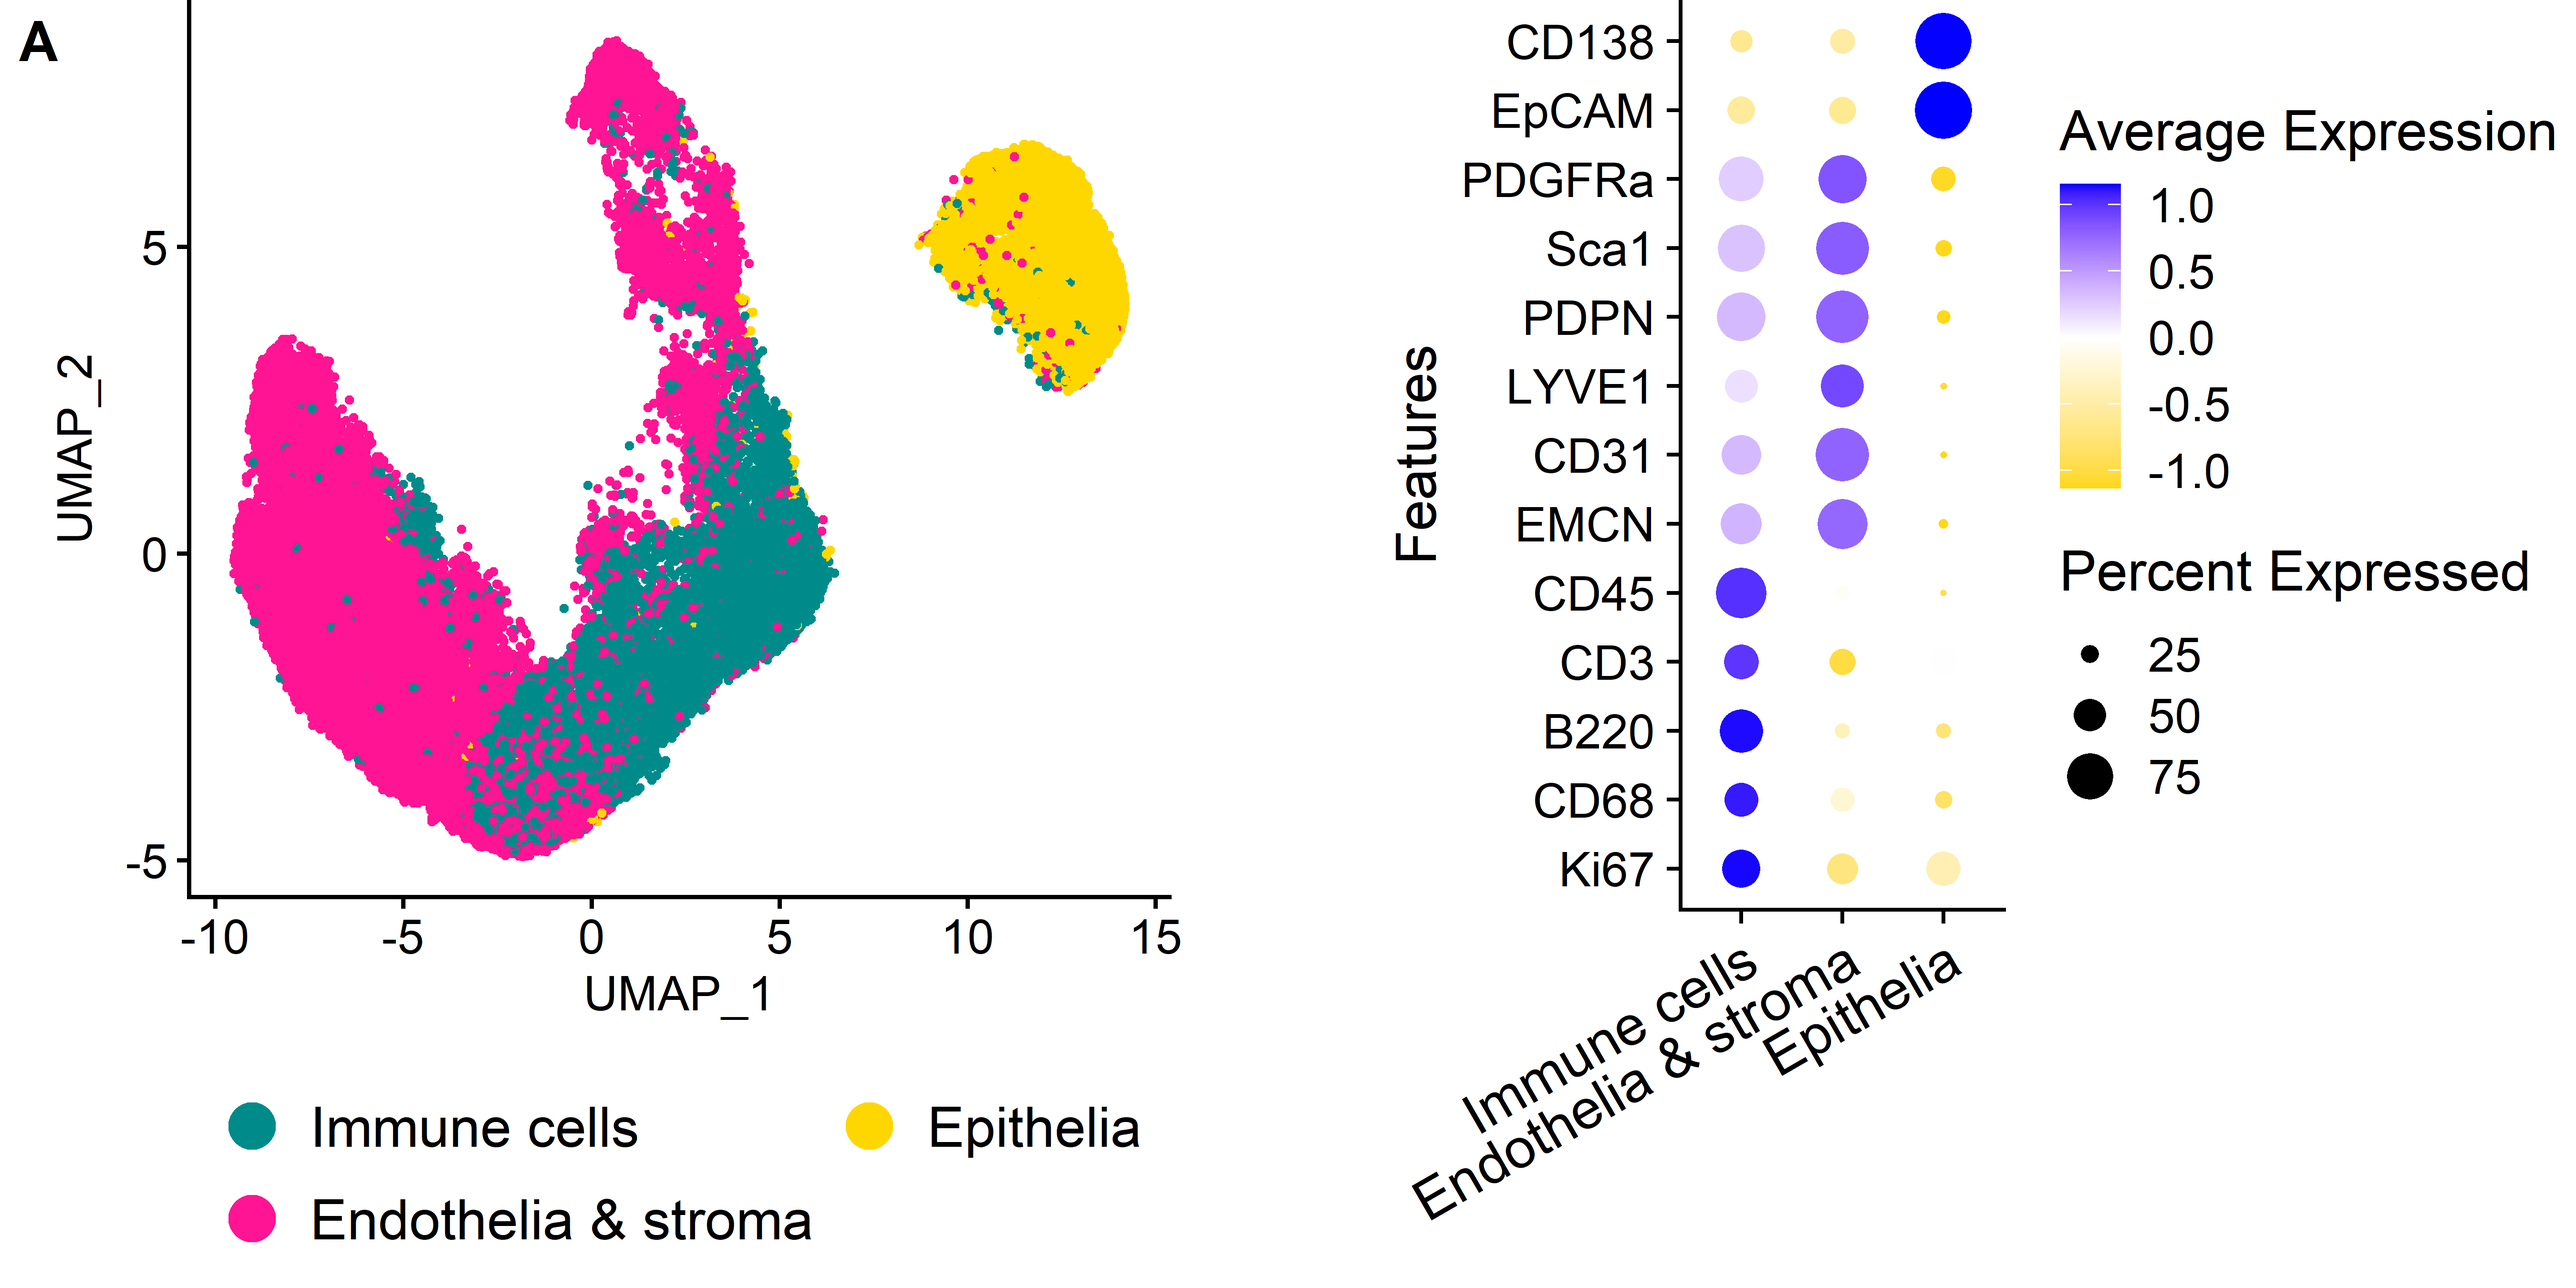
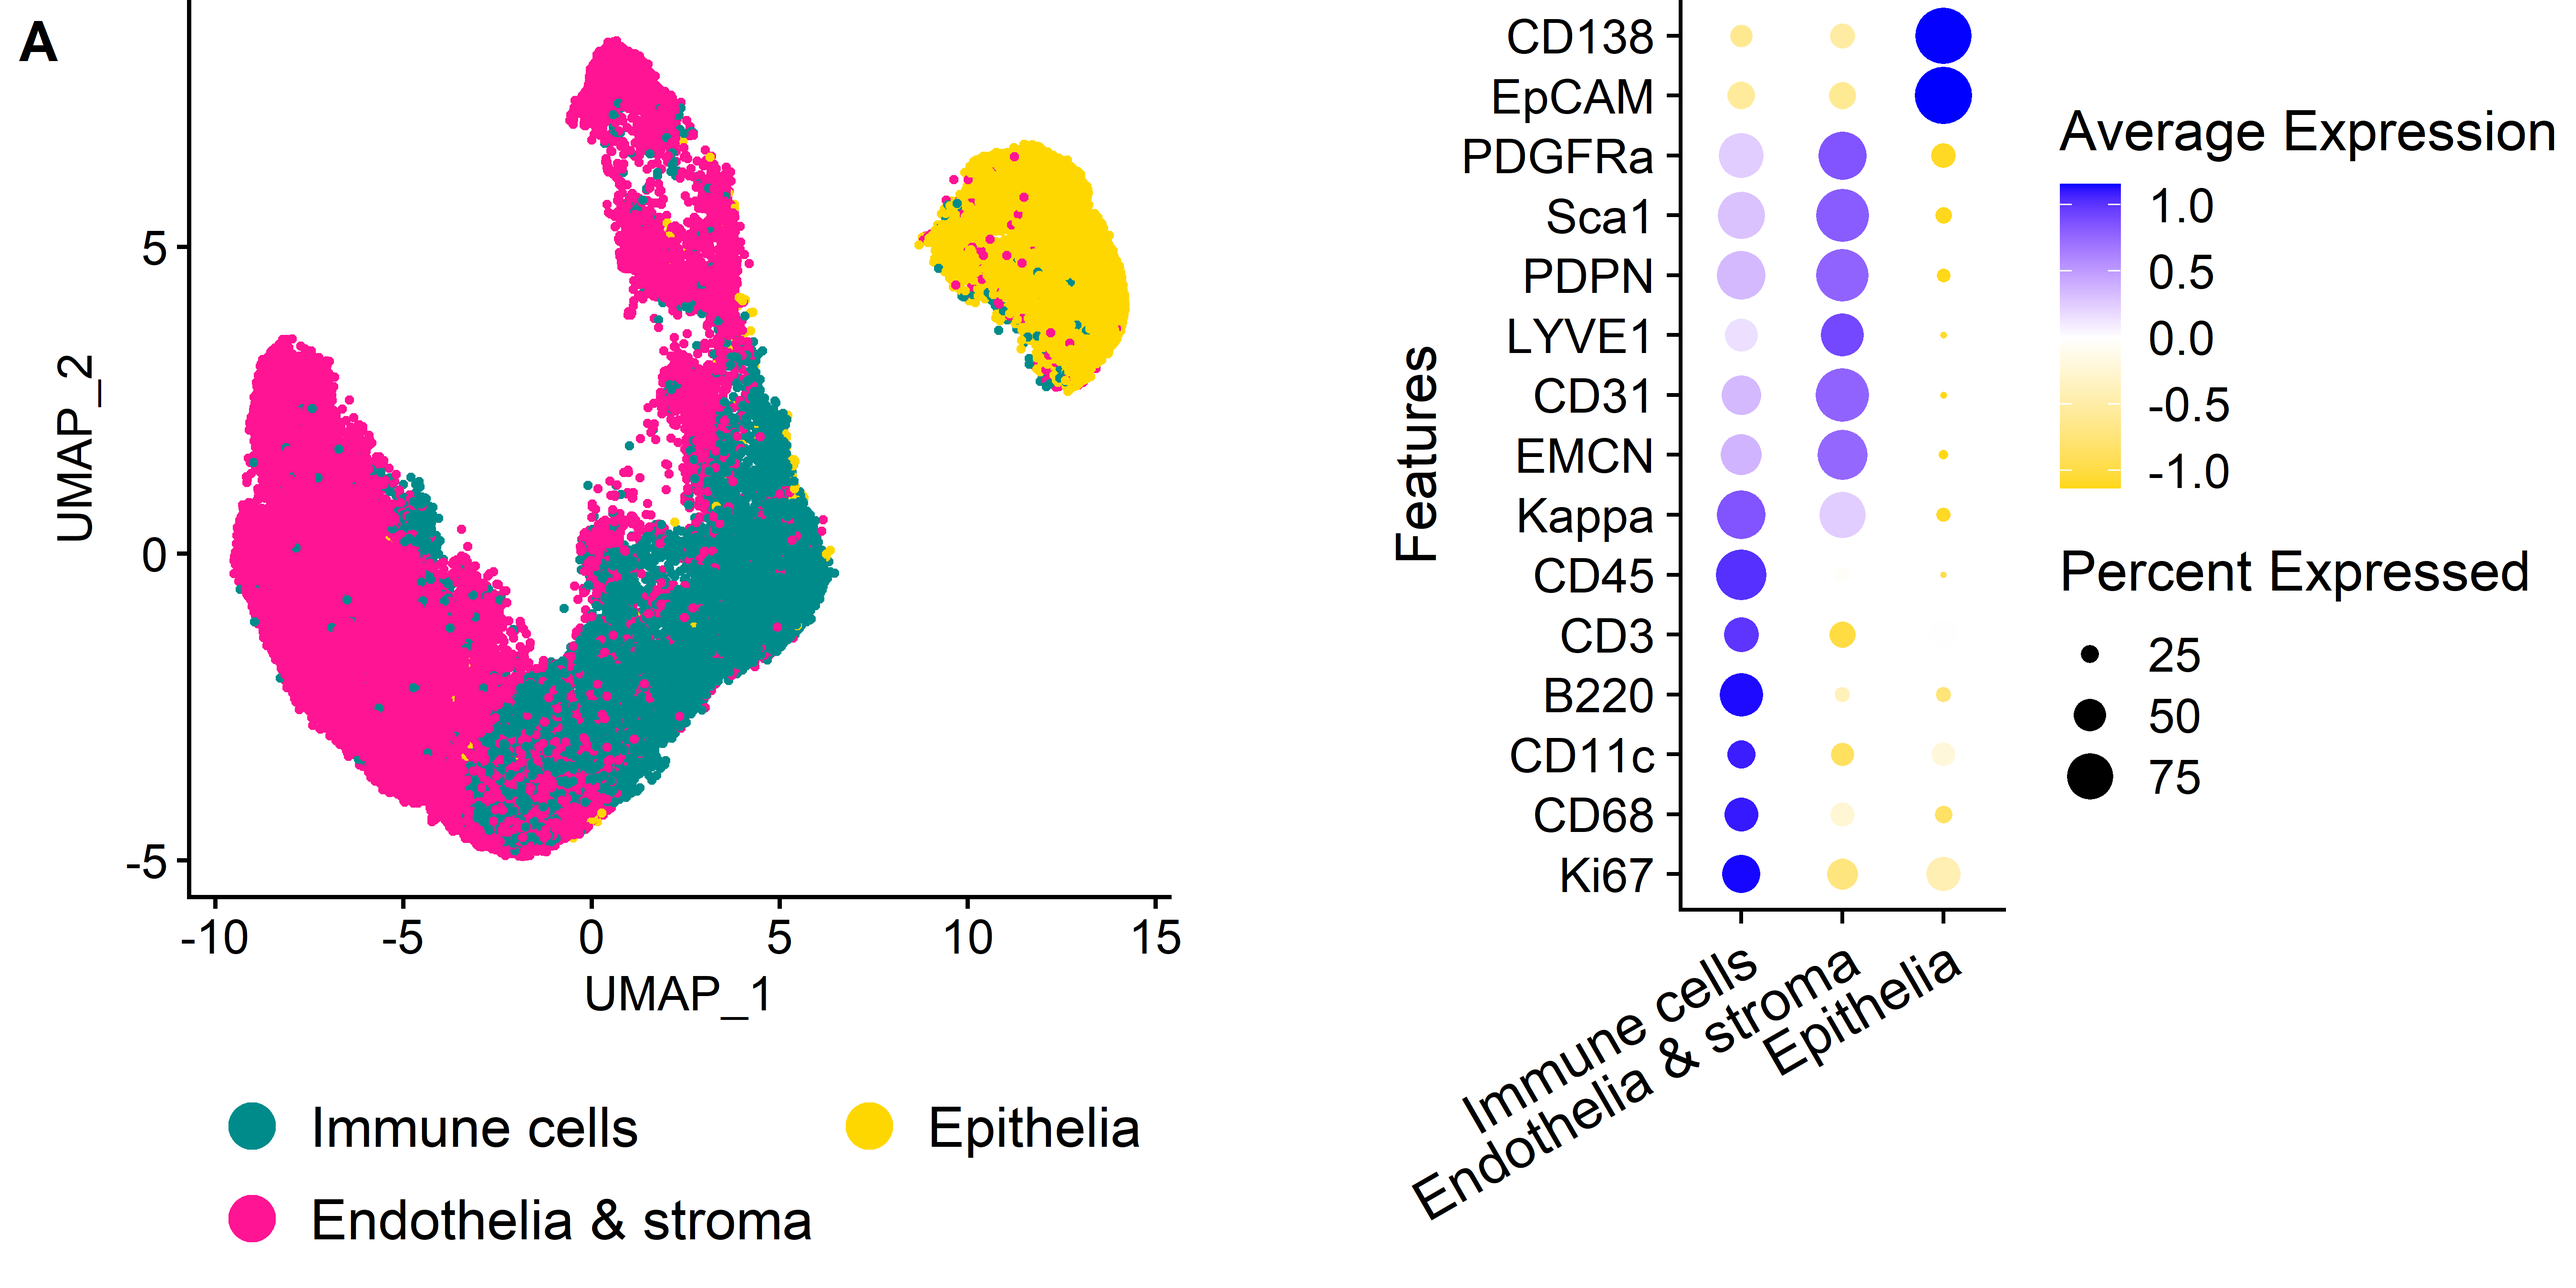
Dot plot of all annotated cell types of AL3

Changed region(s): [[0.56, 0.0, 0.7778, 0.6844], [0.7467, 0.56, 0.7778, 0.5911]]

diff --git a/2_visualizations_for_figures/Fig_4_ILCs_in_lung.md b/2_visualizations_for_figures/Fig_4_ILCs_in_lung.md
@@ -1,7 +1,7 @@
 ---
 title: "Figure 4: Immune cells, ILCs and ILC subtypes in lung"
 author: "Sandy Kroh"
-date: "April 22, 2026"
+date: "April 24, 2026"
 output:
   html_document:
     toc: yes
@@ -566,6 +566,54 @@ ggarrange(img_plot_bec, "NONE", img_plot_ly, ncol = 1, nrow = 3, heights = c(8.1
 ```
 
 <img src="Fig_4_ILCs_in_lung_files/figure-html/unnamed-chunk-22-1.png" alt="" width="100%" style="display: block; margin: auto;" />
+
+
+``` r
+Seurat::DotPlot(SO.lung, 
+                group.by = "AL3",
+                  features = c(
+                    "CD45", 
+                    "EOMES", 
+                    "TBET", 
+                    "GATA3eGFP", 
+                    "KLRG1", 
+                    "CD127",
+                    "RORgt",
+                    "CD4", 
+                    "CD3", 
+                    "CD8a", 
+                    "B220", 
+                    "Kappa",
+                    "MHCII", 
+                    "CD68", 
+                    "CD11c",
+                    "CD31", 
+                    "EMCN", 
+                    "CD117",
+                    "CD90", 
+                    "PDGFRa", 
+                    "LYVE1",
+                    "EpCAM", 
+                    "CD138" 
+                  ), 
+                cols ="RdBu", assay = "MELC")+   
+    RotatedAxis()+
+  ylab("Annotated cell types (AL3)")+
+  ggtitle("All annotated cell types (AL3)")+
+    # coord_flip()+
+    theme(axis.text.x=element_text(size=10, angle = 45),
+          axis.text.y=element_text(size=10), 
+          axis.title.y = element_text(size=11, face = "bold"), 
+          axis.title.x = element_text(size=11, face = "bold"), 
+          # plot.margin = margin(0.2, 2, 1, 0.2, "cm"), 
+          plot.title = element_text(size=12, face = "bold", hjust = 0.5), 
+          legend.text = element_text(size = 10),
+          legend.title = element_text(size = 10, face = "bold"))+ 
+  scale_color_gradient2(midpoint = 0, low = "gold", 
+                            high = "blue", space = "Lab" )
+```
+
+<img src="Fig_4_ILCs_in_lung_files/figure-html/unnamed-chunk-23-1.png" alt="" width="100%" style="display: block; margin: auto;" />
 
 ## Session Information
 

diff --git a/2_visualizations_for_figures/Fig_2_major_cell_types_lung.md b/2_visualizations_for_figures/Fig_2_major_cell_types_lung.md
@@ -1,7 +1,7 @@
 ---
 title: "Figure 2: major immune and non-immune cell types lung"
 author: "Sandy Kroh"
-date: "April 22, 2026"
+date: "April 23, 2026"
 output:
   html_document:
     toc: yes
@@ -116,9 +116,11 @@ dot_plot <- Seurat::DotPlot(SO.lung,
                   features = c(
                     "Ki67", 
                     "CD68", 
+                    "CD11c",
                     "B220", 
                     "CD3", 
                     "CD45", 
+                    "Kappa",
                     "EMCN", 
                     "CD31", 
                     "LYVE1", 
